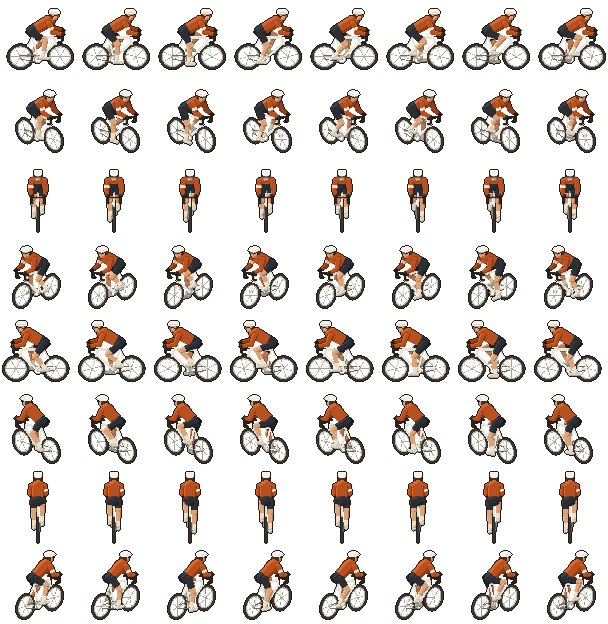
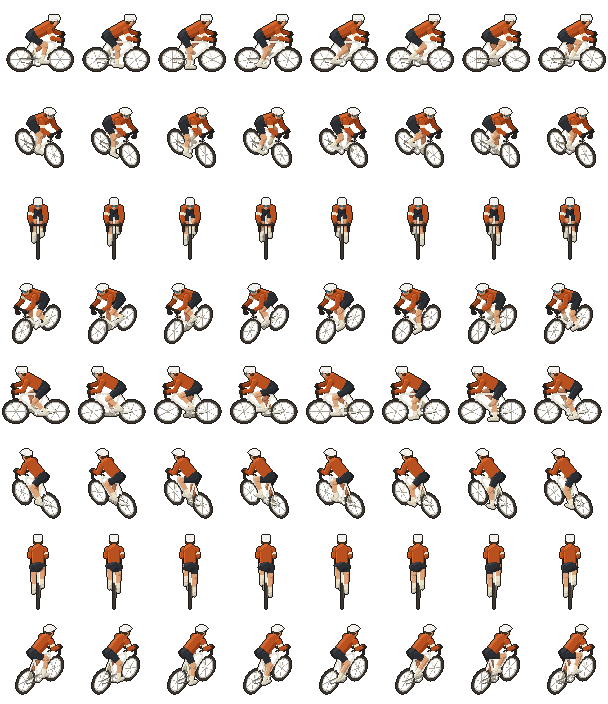
Rework the route: flyover ridden north-west, stairs and downhill on the hill, pose and exit left
Raise the shared camera pitch to 28 degrees so both lanes under the flyover
and the diagonal headings read clearly, and regenerate the sprite sheets.

Claude-Session: https://claude.ai/code/session_01PhpBxT6yJaPmb53CYCeBA3

diff --git a/src/hero/scene.ts b/src/hero/scene.ts
@@ -25,13 +25,13 @@ export interface Segment {
 }
 
 /** Design canvas of the desktop scene, in art pixels. Shown at two screen pixels per art pixel. */
-export const canvas = { width: 720, height: 300 } as const;
+export const canvas = { width: 720, height: 320 } as const;
 
 /** The camera looks down by this angle; the same value is used to draw the sprites. */
-export const pitchDegrees = 18;
+export const pitchDegrees = 28;
 const pitch = (pitchDegrees * Math.PI) / 180;
 /** Screen position of the ground origin (e = 0, s = 0, h = 0). */
-const origin = { x: 0, y: 188 };
+const origin = { x: 0, y: 150 };
 
 export function project(point: Point): { x: number; y: number } {
   return {
@@ -44,33 +44,47 @@ const p = (e: number, s: number, h = 0): Point => ({ e, s, h });
 
 /** A mounted rider is this tall in ground units, helmet included. */
 export const RIDER_HEIGHT = 66;
-export const DECK = 84; // top of the bridge deck
+export const DECK = 84; // top of the flyover
 export const DECK_THICKNESS = 8; // the underside must clear a mounted rider
 export const SUMMIT = 112;
 
 export const structures = {
-  /** The flyover: a level deck with a ramp down at its west end. */
-  bridge: { west: p(250, 80, DECK), east: p(500, 80, DECK), width: 26, rampFoot: p(100, 92, 0), pillars: [256, 330, 440, 494] },
-  /** The hill on the right, reached by stairs and left by a descent onto the deck. */
-  hill: { summit: p(655, -6, SUMMIT), stairsFoot: p(560, 44, 0), stairsTop: p(632, -8, SUMMIT), steps: 14 },
-  barriers: [p(112, 150, 0), p(222, 150, 0)],
-  poseArea: p(300, 176, 0),
+  /**
+   * The flyover: a steep ramp up, a flat top and a steep ramp down, ridden
+   * towards the north-west. Two lanes pass under the flat top: the entry
+   * lane (south) and the way out (north).
+   */
+  flyover: { footIn: p(453, 203, 0), topIn: p(400, 150, DECK), topOut: p(341, 91, DECK), footOut: p(288, 38, 0), width: 26 },
+  /** The hill on the right: stairs up its north-east face, a steep drop down the south-east face. */
+  hill: { stairsFoot: p(500, 140, 0), stairsTop: p(570, 70, SUMMIT), dropTop: p(592, 72, SUMMIT), dropFoot: p(667, 147, 0), steps: 14 },
+  barriers: [p(112, 140, 0), p(222, 140, 0)],
+  poseArea: p(130, 104, 0),
 };
 
 export const route: Segment[] = [
-  { id: 'entry', label: 'Entry', action: 'ride', facing: 'E', marker: 0.85, path: [p(-40, 150), p(60, 150)] },
-  { id: 'barriers', label: 'Barriers', action: 'hop', facing: 'E', marker: 0.62, path: [p(60, 150), p(262, 150)] },
-  { id: 'underpass', label: 'Underpass', action: 'ride', facing: 'NE', marker: 0.8, path: [p(262, 150), p(336, 140), p(380, 104), p(396, 52), p(430, 34)] },
-  { id: 'dismount', label: 'Dismount', action: 'dismount', facing: 'E', marker: 0.8, path: [p(430, 34), p(560, 44)] },
-  { id: 'stairs', label: 'Stairs', action: 'run', facing: 'NE', marker: 0.5, path: [p(560, 44), p(632, -8, SUMMIT)] },
-  { id: 'summit', label: 'Summit', action: 'remount', facing: 'S', marker: 0.6, path: [p(632, -8, SUMMIT), p(655, -6, SUMMIT), p(662, 8, SUMMIT)] },
-  { id: 'descent', label: 'Descent', action: 'ride', facing: 'SW', marker: 0.5, path: [p(662, 8, SUMMIT), p(600, 58, 96), p(500, 80, DECK)] },
-  { id: 'bridge', label: 'Bridge', action: 'ride', facing: 'W', marker: 0.45, path: [p(500, 80, DECK), p(250, 80, DECK)] },
-  { id: 'ramp', label: 'Ramp', action: 'ride', facing: 'W', marker: 0.5, path: [p(250, 80, DECK), p(100, 92, 0)] },
-  { id: 'turn', label: 'To the pose area', action: 'ride', facing: 'SE', marker: 0.2, path: [p(100, 92), p(70, 120), p(96, 162), p(300, 176)] },
-  { id: 'pose', label: 'Pose and idle', action: 'pose', facing: 'S', marker: 0, path: [p(300, 176), p(300, 176)] },
-  { id: 'exit', label: 'Exit', action: 'ride', facing: 'E', marker: 0.75, path: [p(300, 176), p(760, 176)] },
+  { id: 'entry', label: 'Entry', action: 'ride', facing: 'E', marker: 0.85, path: [p(-40, 140), p(60, 140)] },
+  { id: 'barriers', label: 'Barriers', action: 'hop', facing: 'E', marker: 0.85, path: [p(60, 140), p(262, 140)] },
+  { id: 'underpass', label: 'Under the flyover', action: 'ride', facing: 'E', marker: 0.45, path: [p(262, 140), p(420, 140)] },
+  { id: 'dismount', label: 'Dismount', action: 'dismount', facing: 'E', marker: 0.6, path: [p(420, 140), p(500, 140)] },
+  { id: 'stairs', label: 'Stairs', action: 'run', facing: 'NE', marker: 0.5, path: [p(500, 140), p(570, 70, SUMMIT)] },
+  { id: 'summit', label: 'Summit', action: 'remount', facing: 'SE', marker: 0.5, path: [p(570, 70, SUMMIT), p(592, 72, SUMMIT)] },
+  { id: 'downhill', label: 'Steep downhill', action: 'ride', facing: 'SE', marker: 0.55, path: [p(592, 72, SUMMIT), p(667, 147, 0)] },
+  { id: 'return', label: 'Back to the flyover', action: 'ride', facing: 'W', marker: 0.72, path: [p(667, 147), p(692, 172), p(676, 198), p(620, 203), p(453, 203)] },
+  { id: 'flyover-up', label: 'Flyover, steep up', action: 'ride', facing: 'NW', marker: 0.5, path: [p(453, 203), p(400, 150, DECK)] },
+  { id: 'flyover-top', label: 'Flyover, flat top', action: 'ride', facing: 'NW', marker: 0.5, path: [p(400, 150, DECK), p(341, 91, DECK)] },
+  { id: 'flyover-down', label: 'Flyover, steep down', action: 'ride', facing: 'NW', marker: 0.6, path: [p(341, 91, DECK), p(288, 38, 0)] },
+  { id: 'loop', label: 'Round the end of the flyover', action: 'ride', facing: 'E', marker: 0.25, path: [p(288, 38), p(272, 22), p(290, 6), p(340, 10), p(396, 50), p(420, 90), p(404, 104)] },
+  { id: 'under-return', label: 'Under the flyover again', action: 'ride', facing: 'W', marker: 0.32, path: [p(404, 104), p(250, 104)] },
+  { id: 'to-pose', label: 'To the pose area', action: 'ride', facing: 'W', marker: 0.6, path: [p(250, 104), p(130, 104)] },
+  { id: 'pose', label: 'Pose and idle', action: 'pose', facing: 'S', marker: 0, path: [p(130, 104), p(130, 104)] },
+  { id: 'exit', label: 'Exit', action: 'ride', facing: 'W', marker: 0.6, path: [p(130, 104), p(-60, 104)] },
 ];
+
+/** The two lanes that pass under the flat top of the flyover. */
+export const underpasses = ['underpass', 'under-return'];
+
+/** Segments that are allowed to leave the ground. */
+export const elevatedSegments = ['stairs', 'summit', 'downhill', 'flyover-up', 'flyover-top', 'flyover-down'];
 
 /** A point part of the way along a polyline, by length. */
 export function along(path: Point[], t: number): Point {

diff --git a/tests/unit/scene.test.ts b/tests/unit/scene.test.ts
@@ -1,27 +1,44 @@
 import { describe, expect, it } from 'vitest';
-import { along, canvas, DECK, DECK_THICKNESS, project, RIDER_HEIGHT, route, routeGaps, structures } from '../../src/hero/scene.ts';
+import { along, canvas, DECK, DECK_THICKNESS, elevatedSegments, project, RIDER_HEIGHT, route, routeGaps, structures, underpasses } from '../../src/hero/scene.ts';
 
 describe('course route', () => {
   it('is continuous from entry to exit', () => {
     expect(routeGaps()).toEqual([]);
   });
 
-  it('never leaves the ground except on the stairs, hill, bridge and ramp', () => {
-    const elevated = new Set(['stairs', 'summit', 'descent', 'bridge', 'ramp']);
+  it('never leaves the ground except on the stairs, hill and flyover', () => {
     for (const segment of route) {
-      const heights = segment.path.map((point) => point.h);
-      if (!elevated.has(segment.id)) expect(heights.every((h) => h === 0), segment.id).toBe(true);
+      if (elevatedSegments.includes(segment.id)) continue;
+      expect(segment.path.every((point) => point.h === 0), segment.id).toBe(true);
     }
   });
 
-  it('passes under the deck with headroom and crosses it at deck height', () => {
-    const under = route.find((segment) => segment.id === 'underpass')!;
-    const { west, east } = structures.bridge;
-    const crossing = under.path.some((point, i) => i > 0 && (under.path[i - 1].s - west.s) * (point.s - west.s) <= 0 && point.e > west.e && point.e < east.e);
-    expect(crossing).toBe(true);
+  it('passes under the flat top twice with headroom and crosses it at deck height', () => {
+    const { topIn, topOut, width } = structures.flyover;
+    for (const id of underpasses) {
+      const [from, to] = route.find((segment) => segment.id === id)!.path;
+      expect(from.s, id).toBe(to.s);
+      // The flyover runs along e - s = constant, so the lane meets it here.
+      const crossing = from.s + (topIn.e - topIn.s);
+      expect(Math.min(from.e, to.e), id).toBeLessThan(crossing - width);
+      expect(Math.max(from.e, to.e), id).toBeGreaterThan(crossing + width);
+      // The whole lane width lies under the flat part, not under a ramp.
+      expect(from.s - 7, id).toBeGreaterThan(topOut.s);
+      expect(from.s + 7, id).toBeLessThan(topIn.s);
+    }
     expect(DECK - DECK_THICKNESS).toBeGreaterThanOrEqual(RIDER_HEIGHT + 4);
-    const bridge = route.find((segment) => segment.id === 'bridge')!;
-    expect(bridge.path.every((point) => point.h === DECK)).toBe(true);
+    const top = route.find((segment) => segment.id === 'flyover-top')!;
+    expect(top.path.every((point) => point.h === DECK)).toBe(true);
+  });
+
+  it('rides the flyover north-west and the downhill south-east', () => {
+    const heading = (id: string) => {
+      const { path } = route.find((segment) => segment.id === id)!;
+      return { e: Math.sign(path[path.length - 1].e - path[0].e), s: Math.sign(path[path.length - 1].s - path[0].s) };
+    };
+    for (const id of ['flyover-up', 'flyover-top', 'flyover-down']) expect(heading(id), id).toEqual({ e: -1, s: -1 });
+    expect(heading('stairs')).toEqual({ e: 1, s: -1 });
+    expect(heading('downhill')).toEqual({ e: 1, s: 1 });
   });
 
   it('keeps every marker inside the canvas', () => {

diff --git a/tests/unit/art.test.ts b/tests/unit/art.test.ts
@@ -3,13 +3,18 @@ import { mkdtempSync, readdirSync, readFileSync } from 'node:fs';
 import { tmpdir } from 'node:os';
 import { join } from 'node:path';
 import { describe, expect, it } from 'vitest';
-import { DIRECTIONS, drawRider } from '../../art/rider.mjs';
+import { DIRECTIONS, drawRider, PITCH_DEGREES } from '../../art/rider.mjs';
+import { pitchDegrees } from '../../src/hero/scene.ts';
 import { palette } from '../../art/palettes.mjs';
 
 describe('art pipeline', () => {
+  it('draws sprites with the camera pitch of the scene', () => {
+    expect(PITCH_DEGREES).toBe(pitchDegrees);
+  });
+
   it('draws every direction inside the cell with a resolvable palette', () => {
     for (const direction of Object.keys(DIRECTIONS)) for (const crank of [0, 45, 90, 135, 180, 225, 270, 315]) {
-      const sprite = drawRider({ direction, body: 'male', crank });
+      const sprite = drawRider({ direction, body: 'male', crank, width: 76, height: 88, anchor: { x: 38, y: 71 } });
       const rgba = sprite.toRgba(palette('club', 'female'));
       const touchesEdge = sprite.material.some((material: string | null, i: number) => {
         const x = i % sprite.width;

diff --git a/docs/decisions.md b/docs/decisions.md
@@ -6,9 +6,11 @@ Newest first. Each entry says what was decided, by whom and why. Owner decisions
 
 - **Owner: cyclist direction approved** by merging the proposals PR. Fonts and the wordmark are still open.
 - **Agent: the riding cycle is eight frames per crank turn in all eight directions**, none mirrored. Sheets are `public/art/cycle-{rider}-{kit}.png`, rows in the order of `DIRECTIONS`, columns are crank positions. The wheels turn 15 degrees per frame, which loops cleanly with six spokes.
-- **Agent: the desktop scene is 720 by 300 art pixels at two screen pixels each.** A mounted rider is 66 units tall, so riders are large in the scene. The alternative, a smaller sprite, loses the detail the owner approved.
-- **Agent: the course is data in `src/hero/scene.ts`**: one projection (18 degree pitch, shared with the sprites), structures and twelve route segments. Tests fail if segments do not connect, if the bridge underside does not clear a mounted rider, or if the route leaves the ground outside the stairs, hill, bridge and ramp.
-- **Agent: proposed route.** Enter left on the front lane, two barriers, turn away and pass under the bridge, dismount behind it, stairs up the hill on the right, remount, descend towards the viewer onto the east end of the bridge, cross it to the left, ramp down, loop to the pose area at the front, exit right. Awaiting the owner's approval before any scenery is drawn.
+- **Agent: the desktop scene is 720 by 320 art pixels at two screen pixels each.** A mounted rider is 66 units tall, so riders are large in the scene. The alternative, a smaller sprite, loses the detail the owner approved.
+- **Agent: the course is data in `src/hero/scene.ts`**: one projection (28 degree pitch, shared with the sprites and checked by a test), structures and sixteen route segments. Tests fail if segments do not connect, if the underside of the flyover's flat top does not clear a mounted rider on either lane, or if the route leaves the ground outside the stairs, hill and flyover.
+- **Owner: route.** Enter left, two barriers, pass under the flyover, dismount, stairs up the hill heading north-east, remount, steep downhill heading south-east, back along the front, over the flyover heading north-west (steep up, short flat top, steep down), round its far end, under the flyover again, then stop and pose on the left before leaving the screen to the left. The flyover replaces the earlier long bridge. The revised drawing awaits the owner's approval before any scenery is drawn.
+- **Owner: the route drawing is not the graphics.** It is a flat-colour diagram; grass, track, flyover and hill will be pixel art in the riders' style.
+- **Agent: the camera pitch is raised from 18 to 28 degrees.** At 18 degrees the two lanes under the flyover were 8 screen pixels apart and the diagonal headings looked almost side-on. The approved riders are redrawn at the new angle (rider cell 76 by 88, anchor 38, 71); the owner is asked to confirm they still look right.
 
 ## 2026-11-13, art proposals PR
 
@@ -22,7 +24,7 @@ Newest first. Each entry says what was decided, by whom and why. Owner decisions
 - **Owner (2026-11-15): gloves are white with the Czech kit and black with the club kit.**
 - **Agent: jersey designs are functions** (`DESIGNS` in `art/rider.mjs`) of the position along and around a body part, so stripes stay vertical on the body in every direction. Components can be drawn alone through `parts`, and `stance: 'stand'` gives the off-bike figure.
 - **Agent: kits are palette swaps** (`art/palettes.mjs`). Materials are named ramps, a kit replaces jersey, helmet and frame ramps.
-- **Agent: the camera pitch is 18 degrees** for the proposals. To be confirmed with the track study.
+- **Agent: the camera pitch is 18 degrees** for the proposals. Superseded by 28 degrees in the route PR.
 - **Agent: generated sheets are committed in `public/art/`** because the site serves them. A unit test regenerates them and fails if they differ from the source.
 - **Agent: review pages live under `/review/`** and are not built for production. They are also left out of the sitemap.
 - **Agent: Czech race photographs are not yet on the reference board.** Wikimedia Commons could not be reached from the build environment and no link was guessed. See `docs/art-references.md`.

diff --git a/docs/progress.md b/docs/progress.md
@@ -9,7 +9,7 @@ Read this after `SPEC.md`. Update it in every PR.
 | 1 | Astro foundation, bilingual routes, schemas, CI, Playwright, deployment template | Merged |
 | 2 | Calendar, event pages, directory, feeds, contribution forms, researched season data | Merged (plus GitHub Pages preview) |
 | 3 | Typography, tokens, wordmark and cyclist proposals | Merged. Cyclists approved; fonts and wordmark still to be chosen by the owner |
-| 4 | Eight-direction riding study, track geometry, background, soil transition | Part 1 in review: riding cycle and route proposal (`/review/riding/`, `/review/route/`). Scenery and soil follow after route approval |
+| 4 | Eight-direction riding study, track geometry, background, soil transition | Part 1 in review: riding cycle and route proposal (revised after owner feedback: flyover ridden north-west, stairs north-east, downhill south-east, pose and exit left; camera pitch 28 degrees) (`/review/riding/`, `/review/route/`). Scenery and soil follow after route approval |
 | 5 | Supporting content, advertising placements, metadata | Not started |
 | 6 | Animation controller and action modules | Not started |
 | 7 | Full choreography, refined art, kits, responsive scenes | Not started |
